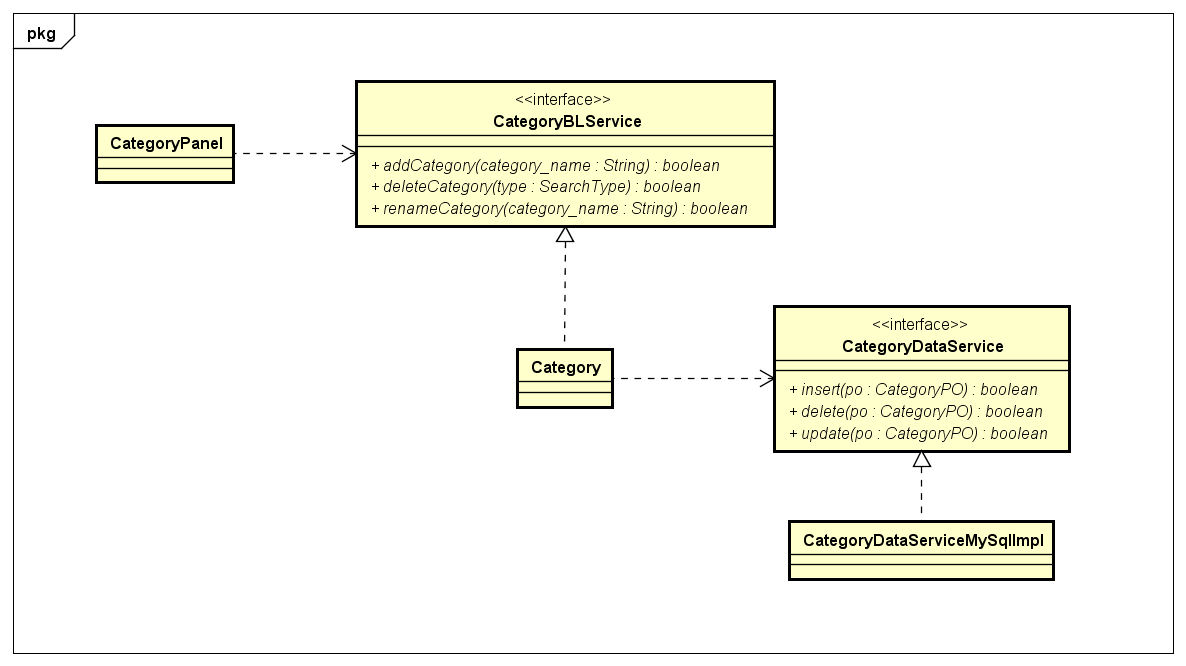
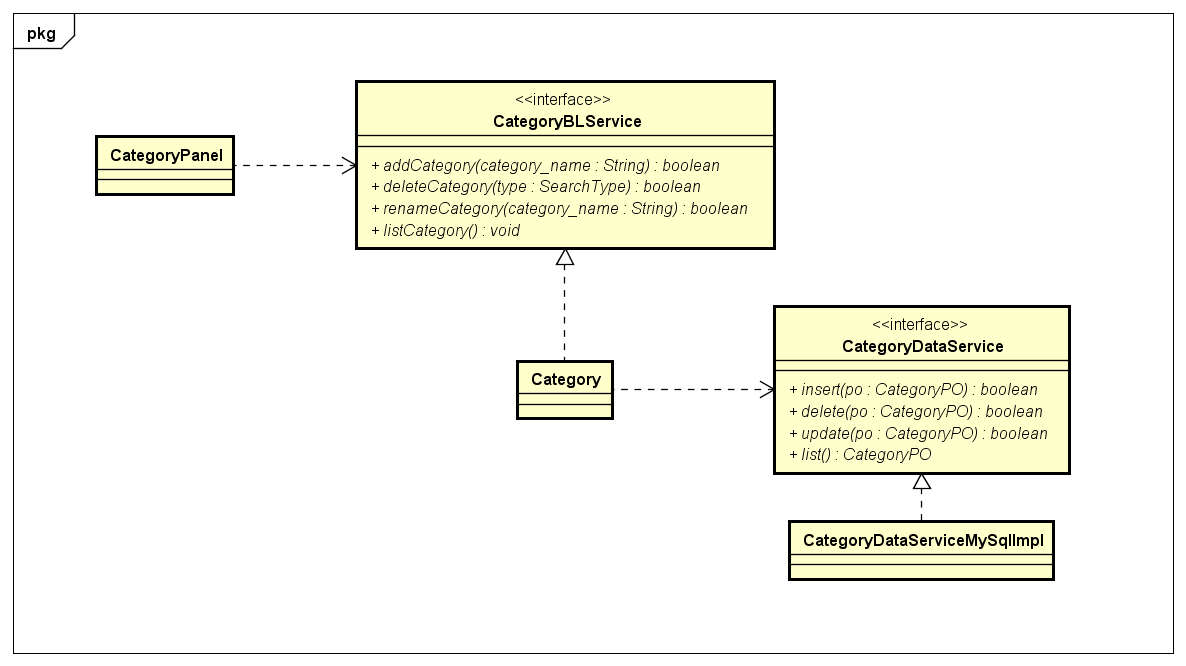
ly

diff --git a/doc/md/体系结构描述文档.md b/doc/md/体系结构描述文档.md
@@ -300,6 +300,14 @@
 
 ##### **后置条件:**显示修改商品分类名称成功或者失败
 
+##### **4. category.list**
+
+##### **语法:**public void listCategory(SearchType type)
+
+##### **前置条件:**
+
+##### **后置条件:**
+
 **需要的服务<需接口>** 
 
 |                   服务名                    |         服务          |
@@ -357,6 +365,7 @@
 | :---------------------------------: | :-------------: |
 | DatabaseFacory.getInventoryDatabase |  得到库存数据库服务的引用   |
 |  GoodDataService.inser(GoodPo po)   | 在数据库中插入GoodPo对象 |
+|     CategoryDataService.list()      | 显示所有商品分类的持久化对象  |
 
 ##### viewbl模块的接口规范
 
@@ -388,10 +397,11 @@
 
 **需要的服务<需接口>** 
 
-|                 服务名                 |       服务        |
-| :---------------------------------: | :-------------: |
-| DatabaseFacory.getInventoryDatabase |  得到库存数据库服务的引用   |
-|  ViewDataService.insert(ViewPo po)  | 在数据库中插入ViewPo对象 |
+|                   服务名                   |          服务           |
+| :-------------------------------------: | :-------------------: |
+|   DatabaseFacory.getInventoryDatabase   |     得到库存数据库服务的引用      |
+|    ViewDataService.insert(ViewPo po)    |    在数据库中插入ViewPo对象    |
+| GoodDataService.search(SearchType type) | 根据SearchType查找多个持久化对象 |
 
 ##### giftbl模块的接口规范
 
@@ -399,7 +409,7 @@
 
 ##### **1. Gift.recommend**
 
-##### **语法:**public ResultMessage gift_recommend(SearchType type)
+##### **语法:**public List gift_recommend()
 
 ##### **前置条件:**
 
@@ -407,7 +417,7 @@
 
 ##### **2. Gift.choose**
 
-##### **语法:**public ResultMessage gift_choose(SearchType type)
+##### **语法:**public List gift_choose(ChooseType type)
 
 ##### **前置条件:**
 
@@ -415,7 +425,7 @@
 
 ##### **3. Gift.commit**
 
-##### **语法:**public ResultMessage gift_commit(SearchType type)
+##### **语法:**public ResultMessage gift_commit()
 
 ##### **前置条件:**
 
